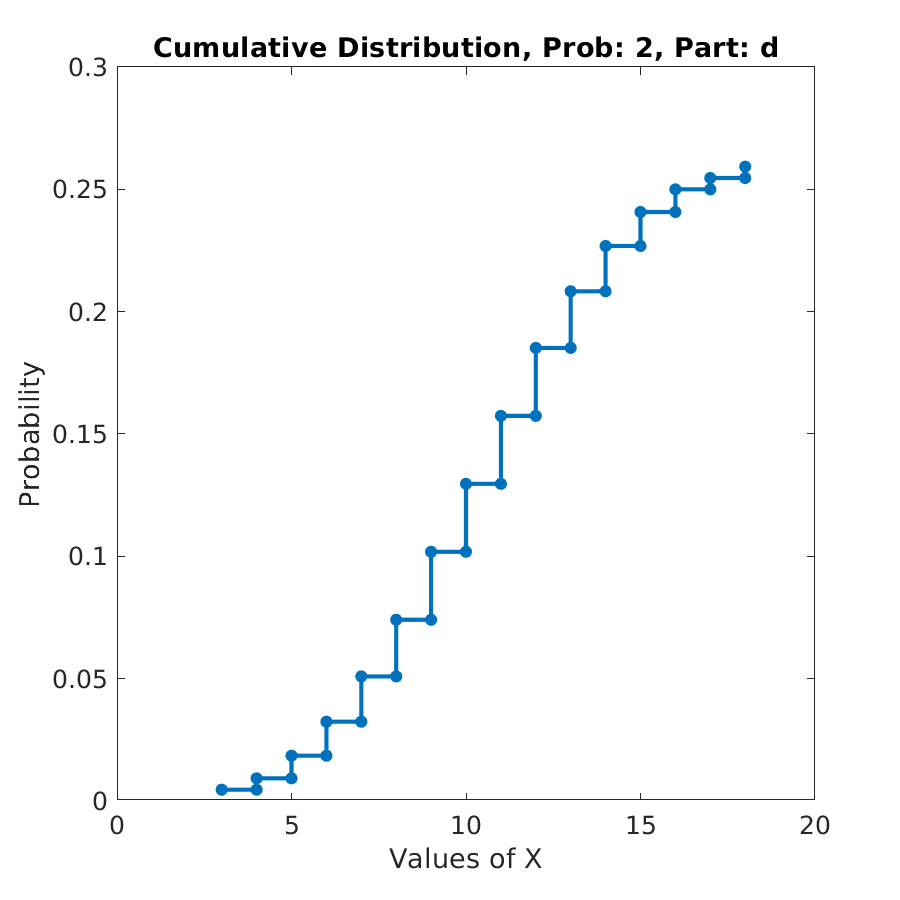
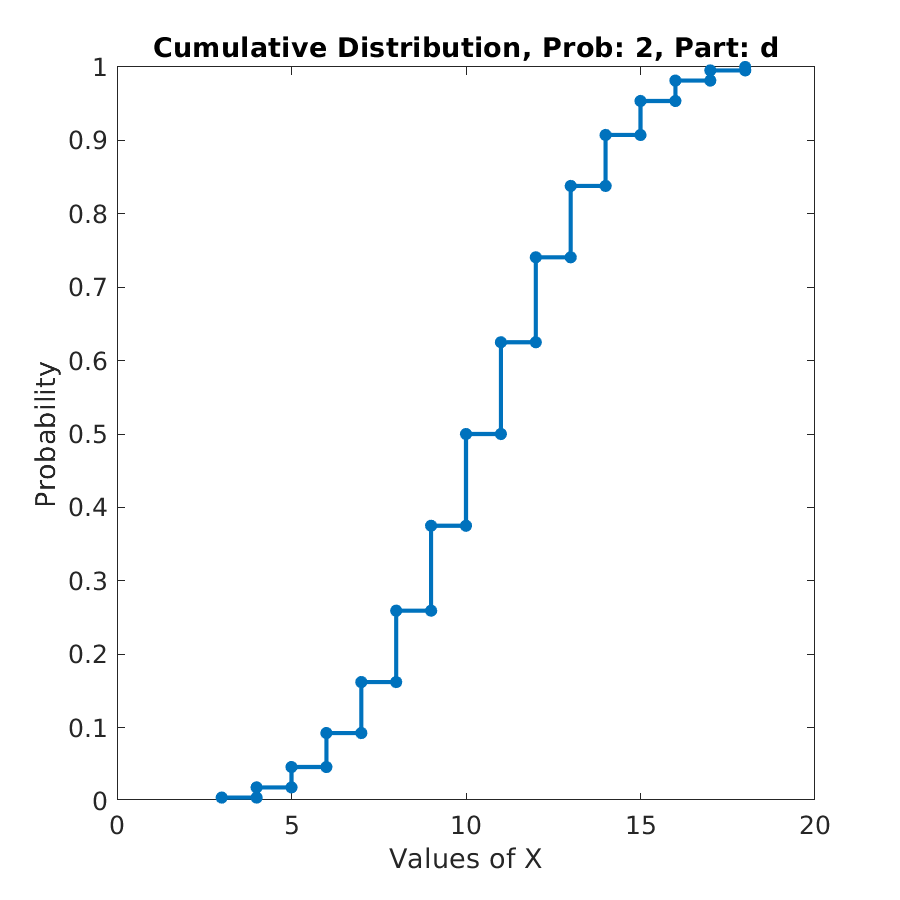
Fixed the probability of dice roll

diff --git a/HW4/Problem1_BinomRandomVars.m b/HW4/Problem1_BinomRandomVars.m
@@ -13,7 +13,9 @@ prob_cumulitive_graph(vals,probs,1,'d')
 prob_mass_graph(vals2,probs2,2,'b')
 prob_cumulitive_graph(vals2,probs2,2,'b')
 
-[vals3,probs3] = dice_cumulative(2,'c');
+%[vals3,probs3] = dice_cumulative(2,'c');
+vals3 = [3,4,5,6,7,8,9,10,11,12,13,14,15,16,17,18];
+probs3 = [1/216,3/216,6/216,10/216,15/216,21/216,25/216,27/216,27/216,25/216,21/216,15/216,10/216,6/216,3/216,1/216];
 prob_mass_graph(vals3,probs3,2,'d')
 prob_cumulitive_graph(vals3,probs3,2,'d')
 
@@ -28,7 +30,12 @@ for i = s:X
     vals = [vals,i];
     val = binopdf(i,n,P);
     out = [out,val];
-    print = sprintf('For X = %d, P = %e',i,val);
+    print = sprintf('For X = %d, PDF = %e',i,val);
+    fprintf('%s\n',print)
+    
+    val2 = binocdf(i,n,P);
+    %out = [out,val];
+    print = sprintf('For X = %d, CDF = %e',i,val2);
     fprintf('%s\n',print)
 end
 
